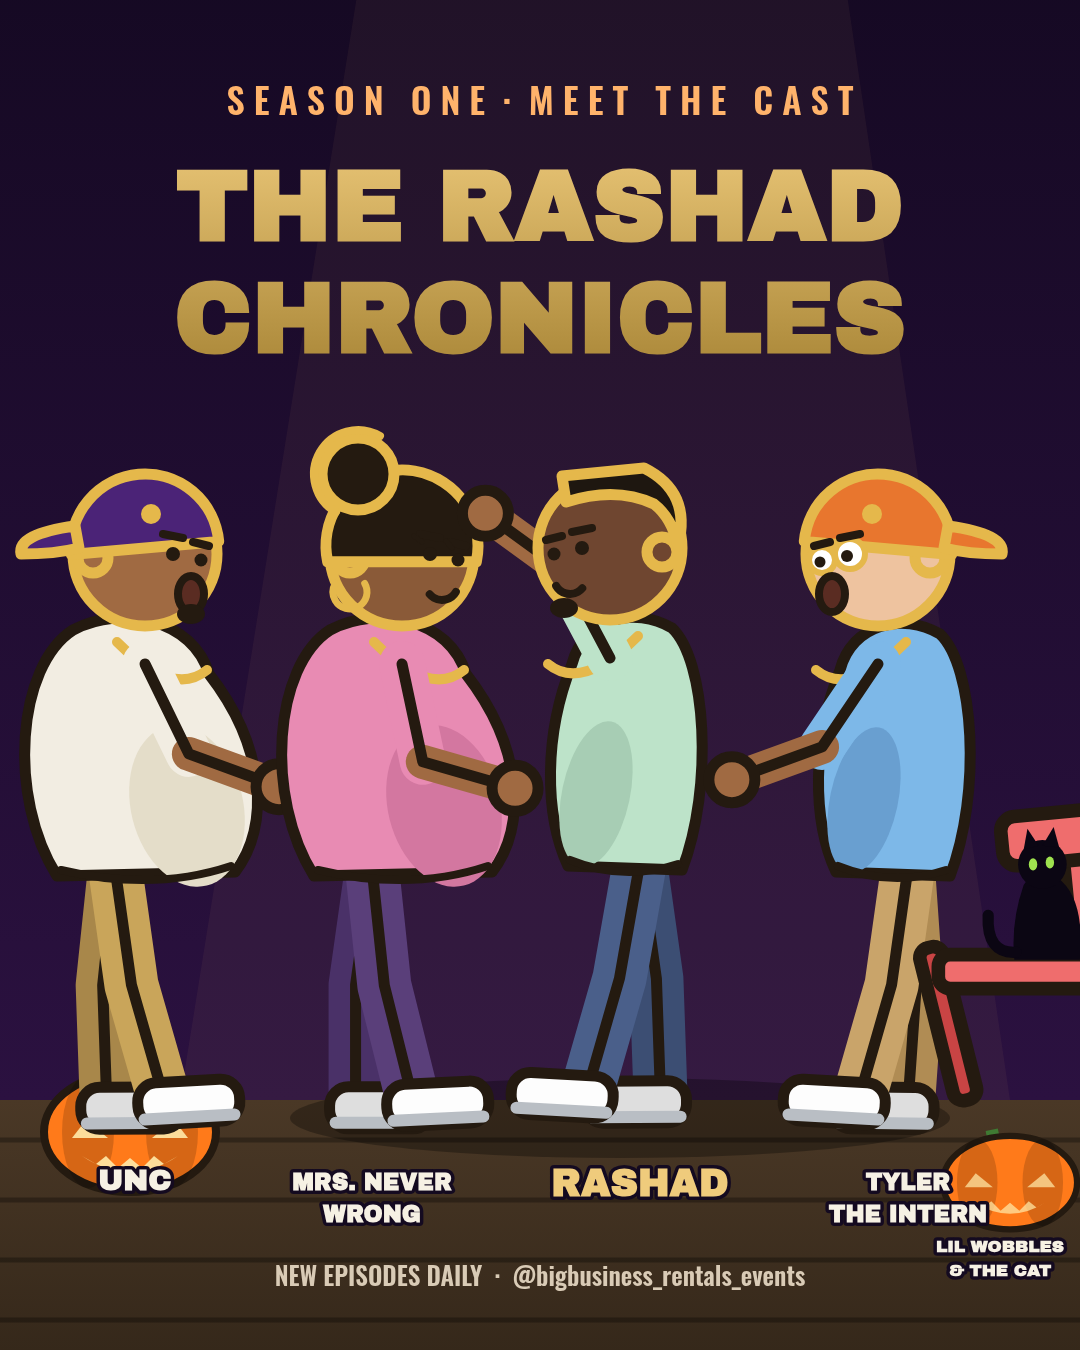
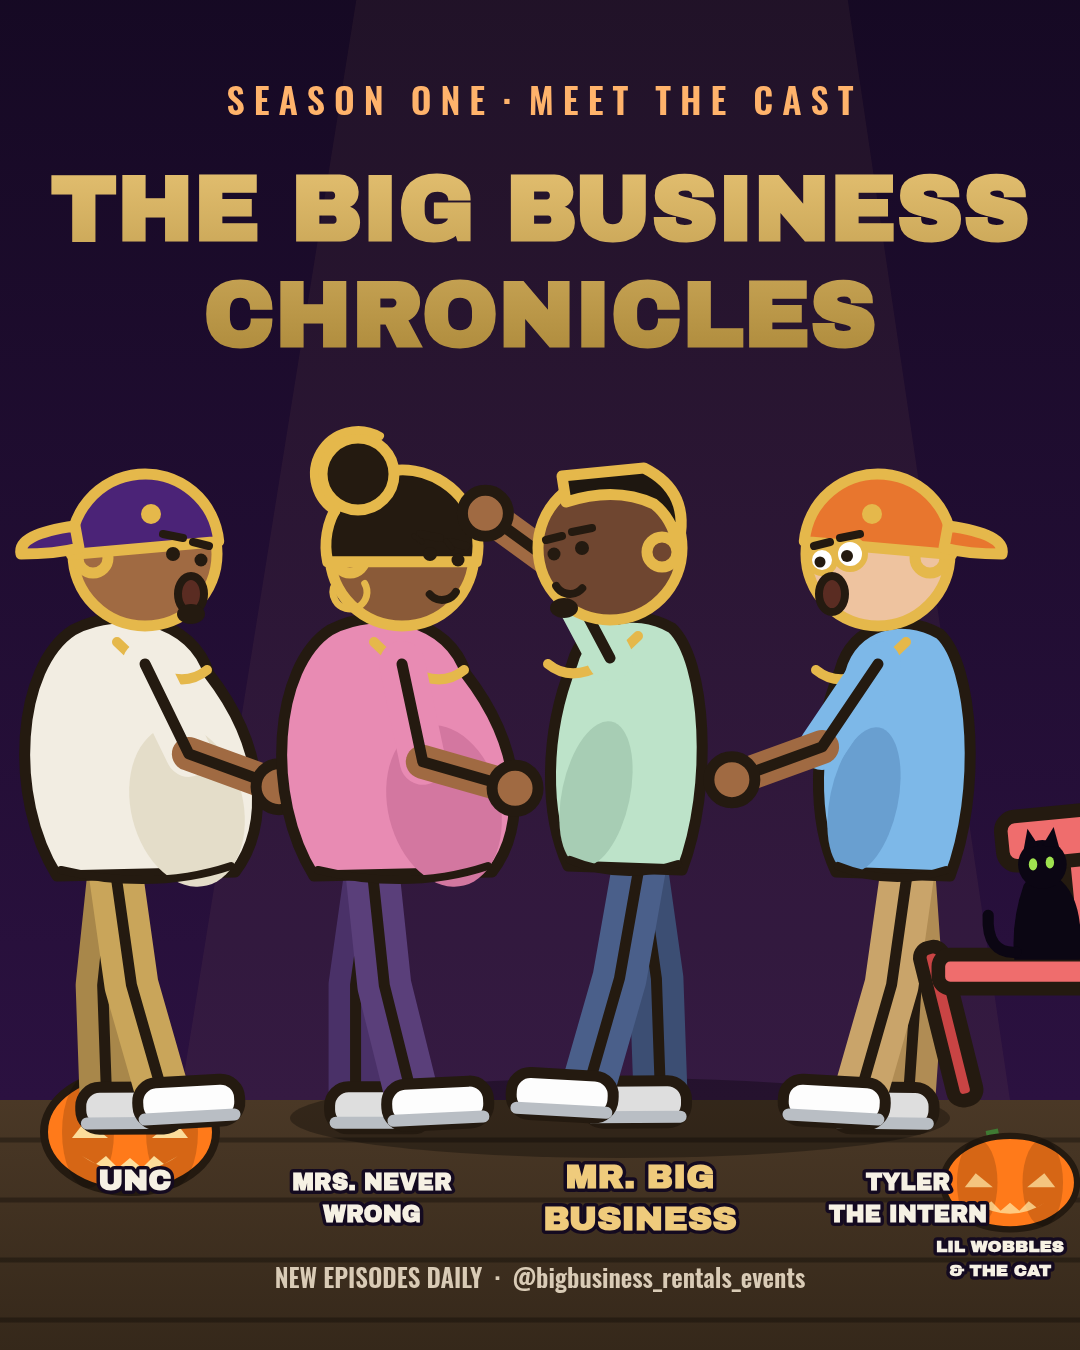
Rename star to Mr. Big Business; show is The Big Business Chronicles
Claude-Session: https://claude.ai/code/session_01QsaQtMK9mt9QmzmvSHqmc4

Changed region(s): [[0.0306, 0.1244, 0.9472, 0.28], [0.4583, 0.84, 0.7333, 0.9644], [0.275, 0.9333, 0.4278, 0.9644]]

diff --git a/big-business-rentals/CAST.md b/big-business-rentals/CAST.md
@@ -1,13 +1,14 @@
-# The Rashad Chronicles · Cast Bible (Season One)
+# The Big Business Chronicles · Cast Bible (Season One)
 
-Show: THE RASHAD CHRONICLES (formerly the Derrick reels; renamed Oct 5)
+Show: THE BIG BUSINESS CHRONICLES (formerly the Derrick reels; renamed Oct 5)
+Star character: MR. BIG BUSINESS (the owner-operator; name promotes the brand in every episode)
 New episodes daily · Episode numbers continue from the Derrick era (next episode: Ep. 15)
 Season One = animated, no voices. Season Two = Rashad's recorded voice lines begin.
 
 ## The cast
-- RASHAD (the star) · rig style STYLER: slim build, faded haircut, green tee, navy pants.
+- MR. BIG BUSINESS (the star) · rig style STYLER: slim build, faded haircut, green tee, navy pants.
   The owner-operator. Confident, tries everything himself, usually loses to physics.
-  Running record on end cards: Rashad W-L tracker. He wins rarely so it counts.
+  Running record on end cards: the Mr. Big Business W-L tracker. He wins rarely so it counts.
 - MRS. NEVER WRONG · rig style STYLEW: pink tee, bun, gold hoop.
   Is never wrong. Says nothing, is proven right by the end of the episode. One raised eyebrow = the punchline.
 - UNC · default rig style (purple backwards cap, cream tee).
@@ -25,4 +26,4 @@ Season One = animated, no voices. Season Two = Rashad's recorded voice lines beg
 - Season One arc: "Road to the Halloween Party" with the full-cast finale Oct 31
 - Hidden pumpkin in every episode (tell the audience once, let them hunt)
 - End cards: episode question to the audience + credit fan ideas by @name in later episodes
-- Reply to comments as Rashad sometimes
+- Reply to comments as Mr. Big Business sometimes

diff --git a/big-business-rentals/posting_captions.md b/big-business-rentals/posting_captions.md
@@ -444,5 +444,5 @@ IG: @bigbusiness_rentals_events
 - Brand anchors that never change: gold accent in every palette, logo + 702-706-8287 + site + IG footer, Oswald/Archivo/Playfair type system
 - No two consecutive days use the same palette; at least one light-mode card per week as a pattern breaker
 
-## SHOW UPDATE (Oct 5): THE RASHAD CHRONICLES
-Derrick is now RASHAD (slim, faded cut, same green tee). Woman in pink = MRS. NEVER WRONG. Uncle = UNC. New character: TYLER THE INTERN (fair skin, orange backwards cap, blue tee, takes everything literally). Villain: LIL WOBBLES the red cheap chair. The black cat is Rashad's silent nemesis. Season One is animated only; voice lines start Season Two. Full details in CAST.md.
+## SHOW UPDATE (Oct 5): THE BIG BUSINESS CHRONICLES
+Derrick is now MR. BIG BUSINESS (slim, faded cut, same green tee). The show is THE BIG BUSINESS CHRONICLES. Woman in pink = MRS. NEVER WRONG. Uncle = UNC. New character: TYLER THE INTERN (fair skin, orange backwards cap, blue tee, takes everything literally). Villain: LIL WOBBLES the red cheap chair. The black cat is Rashad's silent nemesis. Season One is animated only; voice lines start Season Two. Full details in CAST.md.
